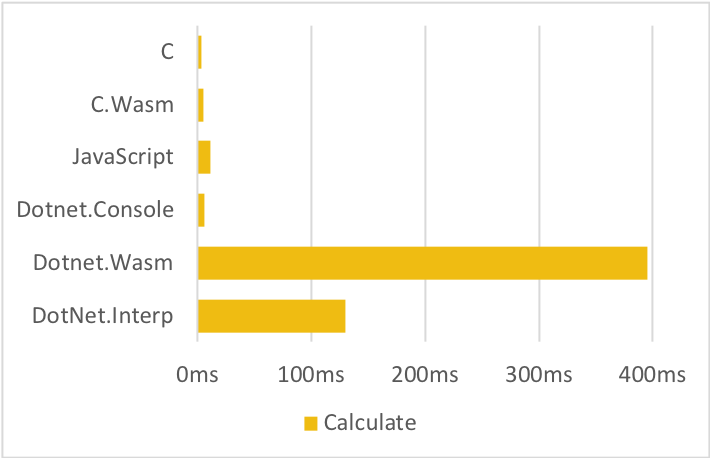
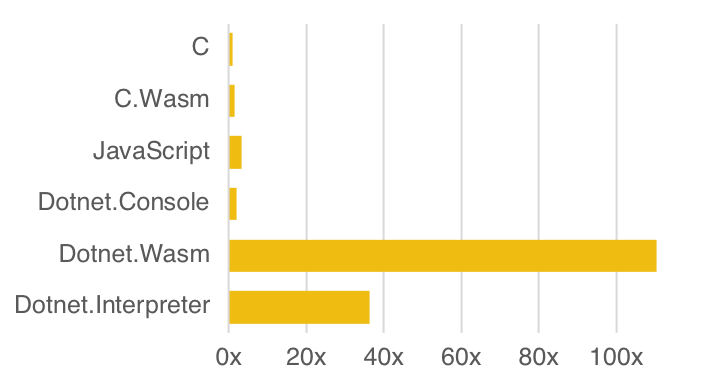
Updated and added charts

diff --git a/README.MD b/README.MD
@@ -18,7 +18,7 @@ The Benchmark was implemented in the following languages/platforms:
 * **JavaScript** → TypeScript 2.8.1 (tsc needs to be in PATH variable)
 * **DotNet.Console** → .NET Core 2.1.300
 * **DotNet.Interpreter** → Mono 5.14.0
-* **DotNet.Wasm** → mono-wasm commit 55360b5 ($WASM_SDK variable needs to be set)
+* **DotNet.Wasm** → mono-wasm commit c211324 ($WASM_SDK variable needs to be set)
 
 The .NET Projects where build with `Release` configuration and the C Projects with `-O3` optimizations.
 
@@ -37,5 +37,11 @@ The following results were recorded on a MacBook Pro (Retina, 15-inch, Late 2013
 
 ![Benchmark Chart - Firefox](images/benchmark-overall-ff.png)
 
+### Detail Results
+
 ![Benchmark Chart - Generate - Firefox](images/benchmark-generate-ff.png) ![Benchmark Chart - Sequence - Firefox](images/benchmark-sequence-ff.png)
-![Benchmark Chart - Generate - Firefox](images/benchmark-sort-ff.png) ![Benchmark Chart - Sequence - Firefox](images/benchmark-calculate-ff.png)
+![Benchmark Chart - Sort - Firefox](images/benchmark-sort-ff.png) ![Benchmark Chart - Calculate - Firefox](images/benchmark-calculate-ff.png)
+
+### Browser Results
+
+![Benchmark Chart - Browser - Total](images/benchmark-browser-total.png) ![Benchmark Chart - Browser - Relative](images/benchmark-browser-relative.png)
